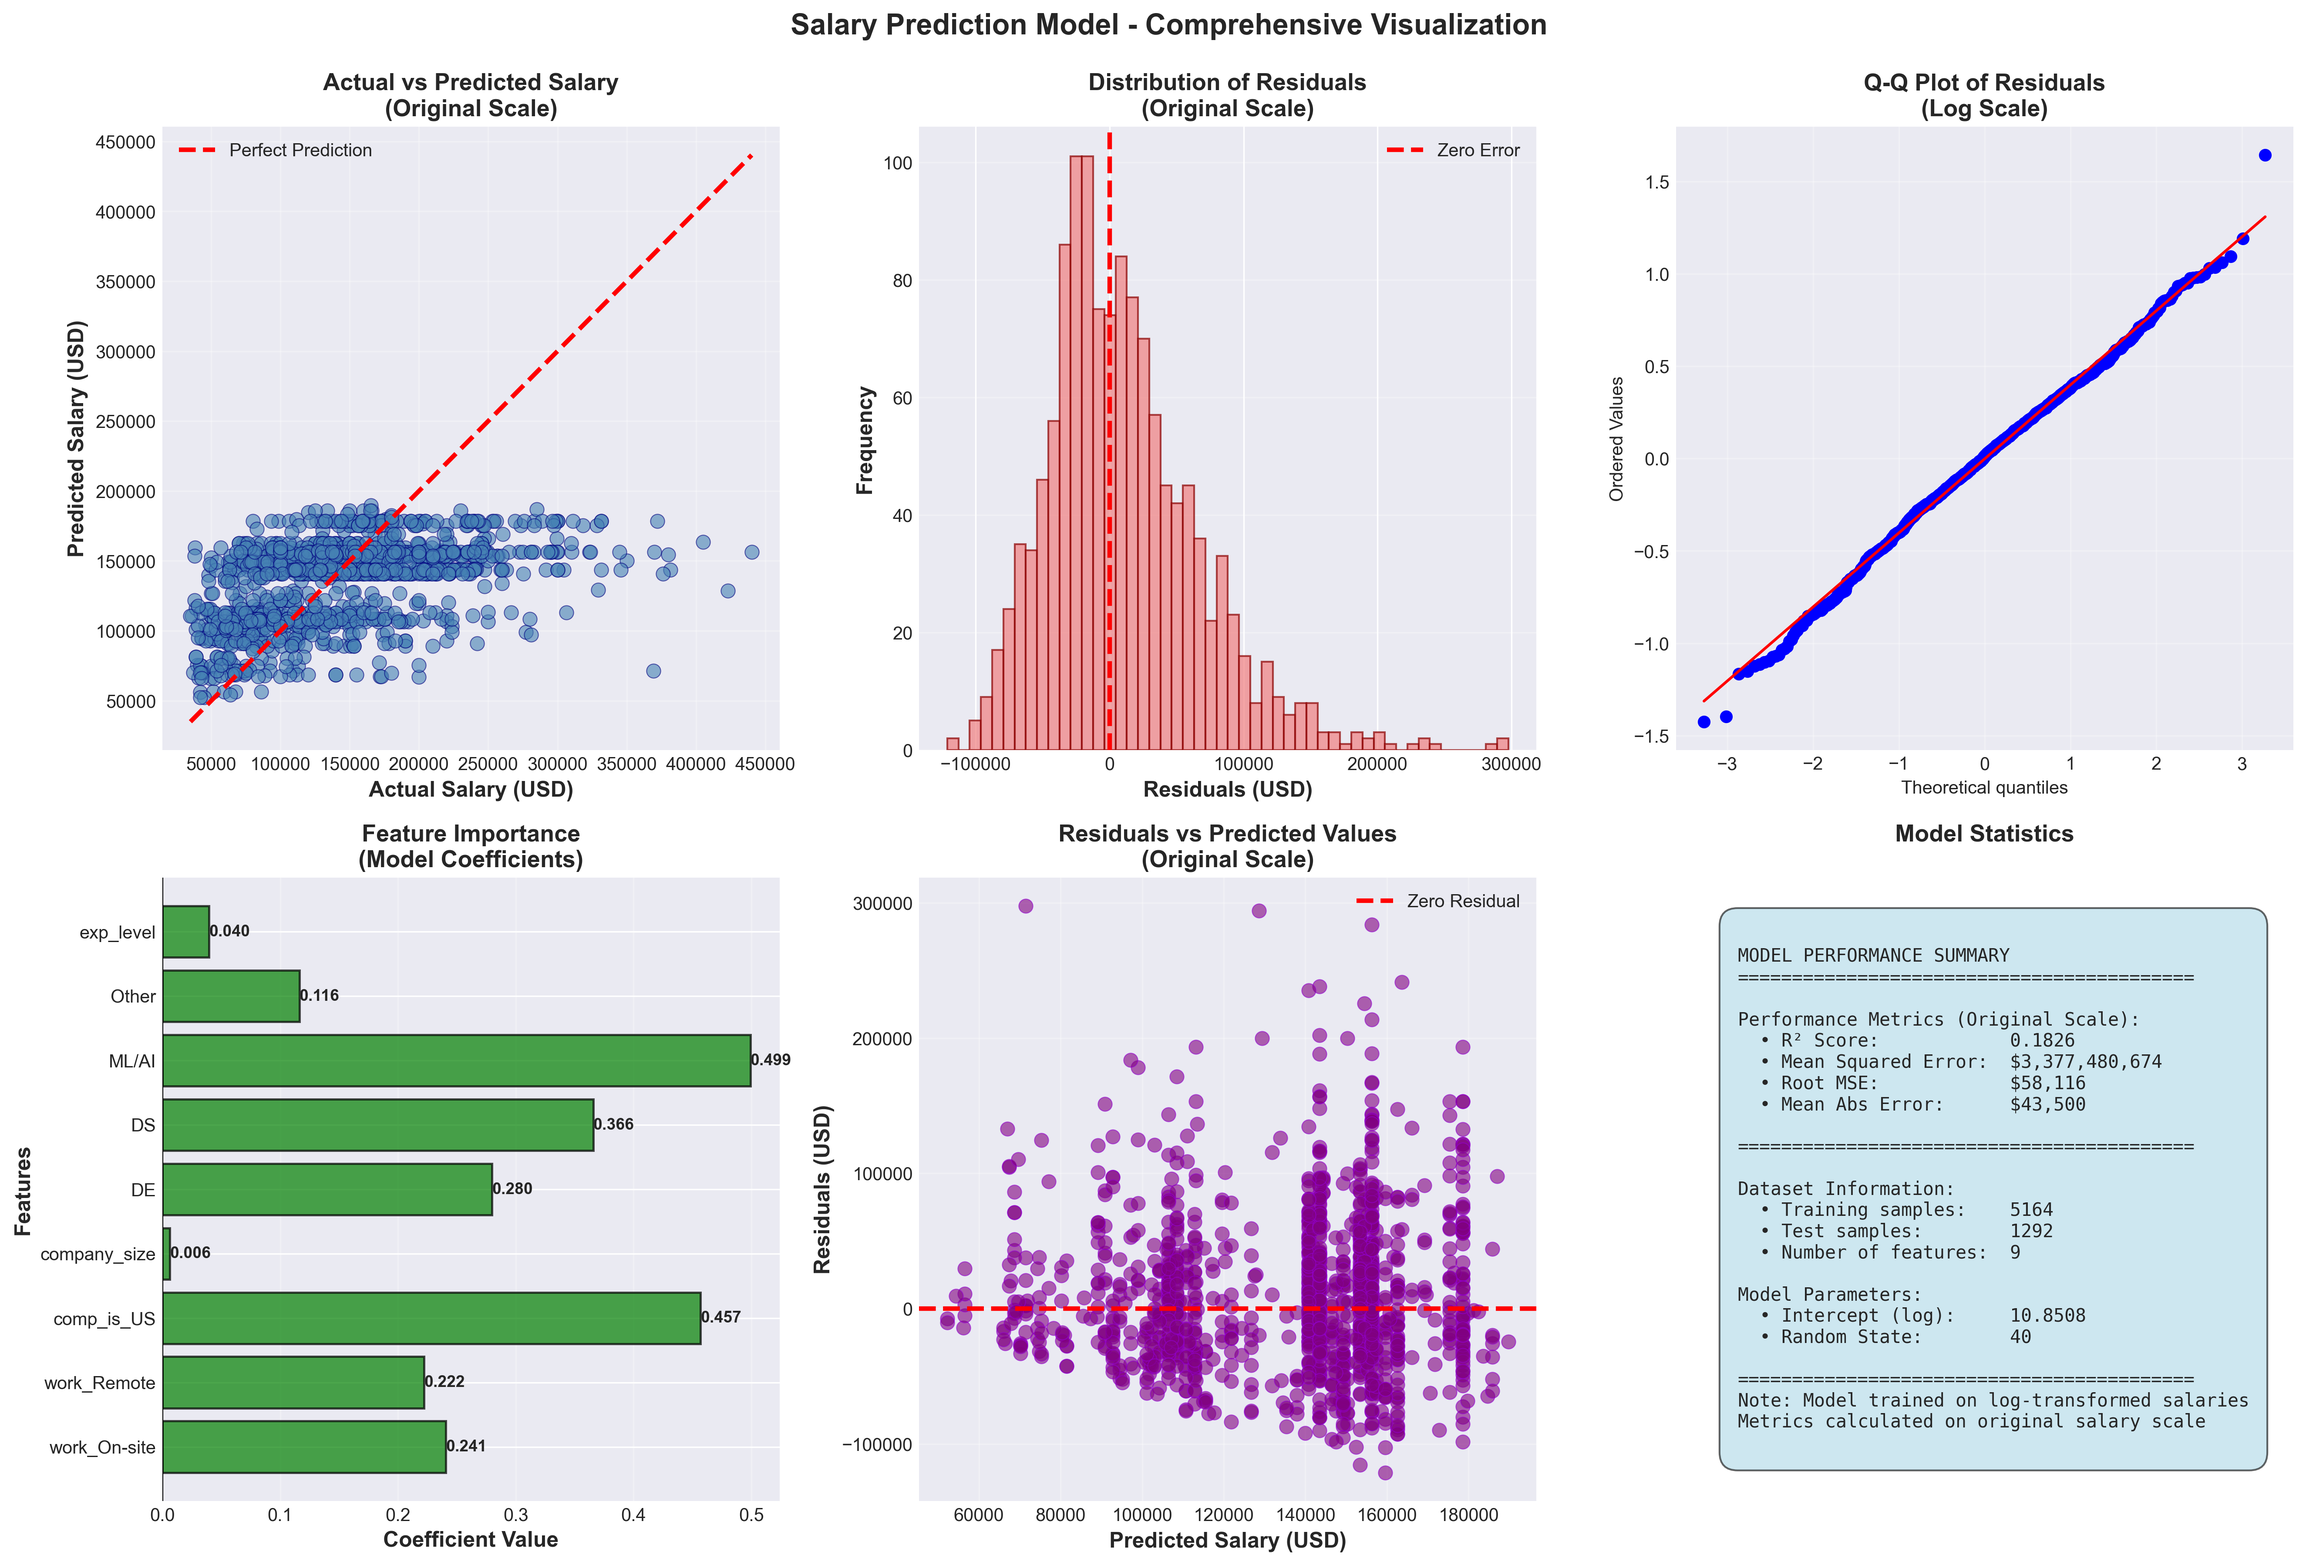
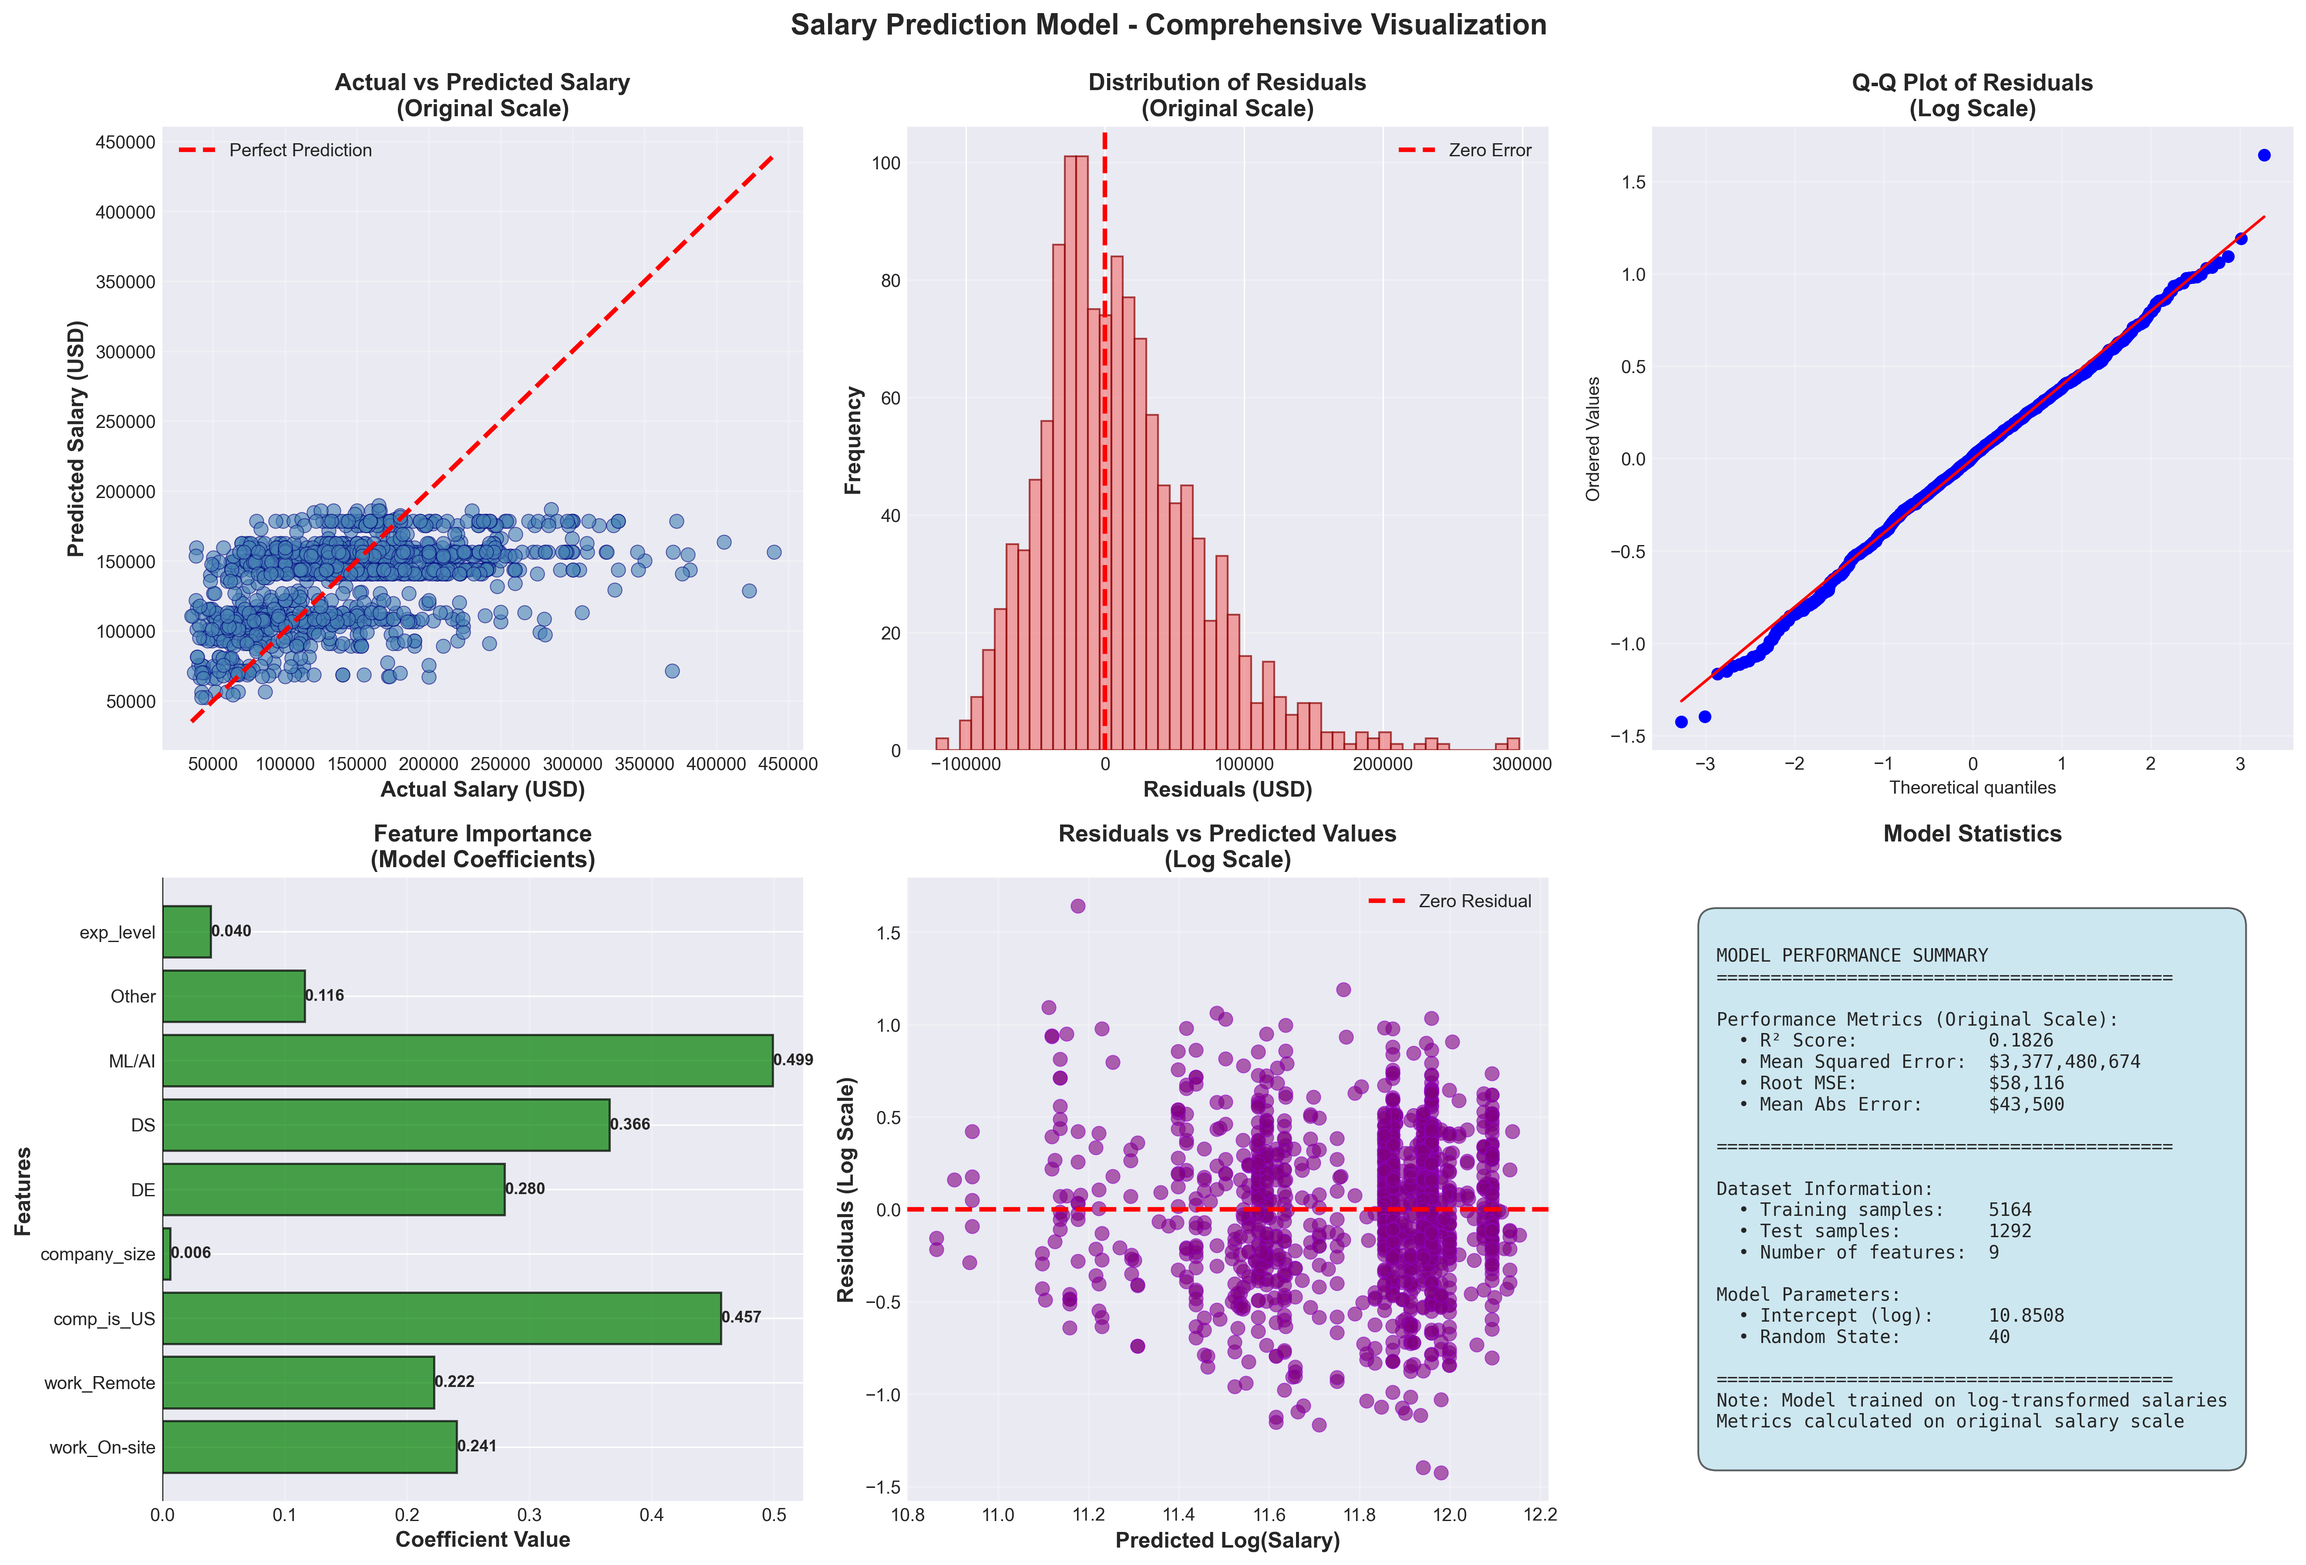
change original scale to log scale

diff --git a/diagram2.py b/diagram2.py
@@ -7,228 +7,135 @@ from sklearn.linear_model import LinearRegression
 from sklearn.metrics import mean_squared_error, r2_score, mean_absolute_error
 from scipy import stats
 
-# Đọc dữ liệu đã được xử lý
+# 1. ĐỌC DỮ LIỆU
+# Giả định: 'salary_in_usd' trong file này đã được Log-transform ở bước tiền xử lý
 df = pd.read_csv('dataset_proceeded.csv')
 
-# Chuẩn bị dữ liệu
+# 2. CHUẨN BỊ DỮ LIỆU
 X = df.drop(columns='salary_in_usd')
 y = df['salary_in_usd']
 
-# Split data (giống model.py)
+# Chia tập dữ liệu (Giữ nguyên random_state để đối chiếu)
 X_train, X_test, y_train, y_test = train_test_split(X, y, test_size=0.2, random_state=40)
 
-# Train model
+# 3. HUẤN LUYỆN MÔ HÌNH
 model = LinearRegression()
 model.fit(X_train, y_train)
 
-# Predictions (trong log scale)
+# 4. DỰ ĐOÁN (TRÊN LOG SCALE)
 y_pred = model.predict(X_test)
 
-# Convert về original scale để tính metrics
-y_test_original = np.exp(y_test)
-y_pred_original = np.exp(y_pred)
-
-# Tính metrics trên original scale
-mse = mean_squared_error(y_test_original, y_pred_original)
-rmse = np.sqrt(mse)
-r2 = r2_score(y_test_original, y_pred_original)
-mae = mean_absolute_error(y_test_original, y_pred_original)
-
-# Residuals trong original scale
-residuals_original = y_test_original - y_pred_original
-
-# Residuals trong log scale
+# 5. TÍNH TOÁN METRICS TRÊN LOG SCALE
+# Không dùng np.exp(), tính trực tiếp để xem sai số trên đơn vị Log
+mse_log = mean_squared_error(y_test, y_pred)
+rmse_log = np.sqrt(mse_log)
+r2_log = r2_score(y_test, y_pred)
+mae_log = mean_absolute_error(y_test, y_pred)
 residuals_log = y_test - y_pred
 
 print("="*60)
-print("MODEL PERFORMANCE METRICS")
+print("MODEL PERFORMANCE METRICS (LOG SCALE)")
 print("="*60)
-print(f"R² Score:                {r2:.4f}")
-print(f"Mean Squared Error:      ${mse:,.2f}")
-print(f"Root Mean Squared Error: ${rmse:,.2f}")
-print(f"Mean Absolute Error:     ${mae:,.2f}")
+print(f"R² Score:                {r2_log:.4f}")
+print(f"Mean Squared Error:      {mse_log:.4f}")
+print(f"Root Mean Squared Error: {rmse_log:.4f}")
+print(f"Mean Absolute Error:     {mae_log:.4f}")
 print("="*60)
 
-# ========== VISUALIZATION ==========
+# ========== TRỰC QUAN HÓA 1: HIỆU SUẤT TỔNG THỂ (LOG SCALE) ==========
 plt.style.use('seaborn-v0_8-darkgrid')
 fig = plt.figure(figsize=(18, 12))
 
-# 1. Actual vs Predicted (Original Scale)
+# 1. Actual vs Predicted (Log Scale)
 ax1 = plt.subplot(2, 3, 1)
-plt.scatter(y_test_original, y_pred_original, alpha=0.6, color='steelblue', 
-            edgecolors='navy', s=60, linewidth=0.5)
-plt.plot([y_test_original.min(), y_test_original.max()], 
-         [y_test_original.min(), y_test_original.max()], 
+plt.scatter(y_test, y_pred, alpha=0.6, color='steelblue', edgecolors='navy', s=60)
+plt.plot([y_test.min(), y_test.max()], [y_test.min(), y_test.max()], 
          'r--', lw=2.5, label='Perfect Prediction')
-plt.xlabel('Actual Salary (USD)', fontsize=12, fontweight='bold')
-plt.ylabel('Predicted Salary (USD)', fontsize=12, fontweight='bold')
-plt.title('Actual vs Predicted Salary\n(Original Scale)', fontsize=13, fontweight='bold')
-plt.legend(fontsize=10)
-plt.grid(True, alpha=0.3)
+plt.xlabel('Actual Log(Salary)', fontsize=12, fontweight='bold')
+plt.ylabel('Predicted Log(Salary)', fontsize=12, fontweight='bold')
+plt.title('Actual vs Predicted\n(Log Scale)', fontsize=13, fontweight='bold')
+plt.legend()
 
-# 2. Residuals Distribution (Original Scale)
+# 2. Distribution of Residuals (Log Scale)
 ax2 = plt.subplot(2, 3, 2)
-plt.hist(residuals_original, bins=50, color='lightcoral', edgecolor='darkred', alpha=0.7)
-plt.axvline(x=0, color='red', linestyle='--', linewidth=2.5, label='Zero Error')
-plt.xlabel('Residuals (USD)', fontsize=12, fontweight='bold')
-plt.ylabel('Frequency', fontsize=12, fontweight='bold')
-plt.title('Distribution of Residuals\n(Original Scale)', fontsize=13, fontweight='bold')
-plt.legend(fontsize=10)
-plt.grid(True, alpha=0.3, axis='y')
+sns.histplot(residuals_log, kde=True, color='lightcoral', edgecolor='darkred', alpha=0.7)
+plt.axvline(x=0, color='red', linestyle='--', linewidth=2)
+plt.xlabel('Residuals (Log Difference)', fontsize=12, fontweight='bold')
+plt.title('Distribution of Residuals\n(Log Scale)', fontsize=13, fontweight='bold')
 
-# 3. Q-Q Plot (Log Scale Residuals)
+# 3. Q-Q Plot (Log Scale)
 ax3 = plt.subplot(2, 3, 3)
 stats.probplot(residuals_log, dist="norm", plot=plt)
 plt.title('Q-Q Plot of Residuals\n(Log Scale)', fontsize=13, fontweight='bold')
-plt.grid(True, alpha=0.3)
 
 # 4. Feature Importance (Coefficients)
 ax4 = plt.subplot(2, 3, 4)
-feature_names = [
-    'work_On-site',
-    'work_Remote',
-    'comp_is_US',
-    'company_size',
-    'DE',  # Data Engineering
-    'DS',  # Data Science
-    'ML/AI',
-    'Other',
-    'exp_level'
-]
+feature_names = ['work_On-site', 'work_Remote', 'comp_is_US', 'company_size', 
+                 'DE', 'DS', 'ML/AI', 'Other', 'exp_level']
 coefficients = model.coef_
 colors = ['green' if c > 0 else 'red' for c in coefficients]
-bars = plt.barh(feature_names, coefficients, color=colors, alpha=0.7, edgecolor='black', linewidth=1.2)
-plt.xlabel('Coefficient Value', fontsize=12, fontweight='bold')
-plt.ylabel('Features', fontsize=12, fontweight='bold')
-plt.title('Feature Importance\n(Model Coefficients)', fontsize=13, fontweight='bold')
-plt.axvline(x=0, color='black', linestyle='-', linewidth=1)
-plt.grid(True, alpha=0.3, axis='x')
+bars = plt.barh(feature_names, coefficients, color=colors, alpha=0.7, edgecolor='black')
+plt.axvline(x=0, color='black', lw=1)
+plt.title('Feature Importance\n(Log Scale Coefficients)', fontsize=13, fontweight='bold')
+for bar in bars:
+    plt.text(bar.get_width(), bar.get_y() + bar.get_height()/2, f'{bar.get_width():.3f}', va='center')
 
-# Thêm giá trị lên bars
-for bar, coef in zip(bars, coefficients):
-    width = bar.get_width()
-    plt.text(width, bar.get_y() + bar.get_height()/2, 
-             f'{coef:.3f}',
-             ha='left' if width > 0 else 'right',
-             va='center', fontsize=9, fontweight='bold')
-
-# 5. Residuals vs Predicted (Original Scale)
+# 5. Residuals vs Predicted (Log Scale) - Kiểm tra Homoscedasticity
 ax5 = plt.subplot(2, 3, 5)
-plt.scatter(y_pred_original, residuals_original, alpha=0.6, color='purple', 
-            edgecolors='darkviolet', s=60, linewidth=0.5)
-plt.axhline(y=0, color='red', linestyle='--', linewidth=2.5, label='Zero Residual')
-plt.xlabel('Predicted Salary (USD)', fontsize=12, fontweight='bold')
-plt.ylabel('Residuals (USD)', fontsize=12, fontweight='bold')
-plt.title('Residuals vs Predicted Values\n(Original Scale)', fontsize=13, fontweight='bold')
-plt.legend(fontsize=10)
-plt.grid(True, alpha=0.3)
+plt.scatter(y_pred, residuals_log, alpha=0.6, color='purple', edgecolors='darkviolet', s=60)
+plt.axhline(y=0, color='red', linestyle='--', lw=2)
+plt.xlabel('Predicted Log(Salary)', fontsize=12, fontweight='bold')
+plt.ylabel('Residuals', fontsize=12, fontweight='bold')
+plt.title('Residuals vs Predicted\n(Log Scale)', fontsize=13, fontweight='bold')
 
-# 6. Model Performance Summary
+# 6. Summary Table
 ax6 = plt.subplot(2, 3, 6)
 ax6.axis('off')
+summary_text = (
+    f"SUMMARY (LOG SCALE)\n"
+    f"{'-'*30}\n"
+    f"R² Score: {r2_log:.4f}\n"
+    f"RMSE: {rmse_log:.4f}\n"
+    f"MAE: {mae_log:.4f}\n"
+    f"Train size: {len(X_train)}\n"
+    f"Test size: {len(X_test)}"
+)
+plt.text(0.1, 0.5, summary_text, fontsize=12, family='monospace', 
+         bbox=dict(boxstyle='round', facecolor='wheat', alpha=0.5))
 
-metrics_text = f"""
-MODEL PERFORMANCE SUMMARY
-{'='*42}
-
-Performance Metrics (Original Scale):
-  • R² Score:            {r2:.4f}
-  • Mean Squared Error:  ${mse:,.0f}
-  • Root MSE:            ${rmse:,.0f}
-  • Mean Abs Error:      ${mae:,.0f}
-
-{'='*42}
-
-Dataset Information:
-  • Training samples:    {len(X_train)}
-  • Test samples:        {len(X_test)}
-  • Number of features:  {X.shape[1]}
-
-Model Parameters:
-  • Intercept (log):     {model.intercept_:.4f}
-  • Random State:        40
-
-{'='*42}
-Note: Model trained on log-transformed salaries
-Metrics calculated on original salary scale
-"""
-
-plt.text(0.1, 0.5, metrics_text, fontsize=10, family='monospace',
-         verticalalignment='center', 
-         bbox=dict(boxstyle='round', facecolor='lightblue', alpha=0.6, pad=1))
-plt.title('Model Statistics', fontsize=13, fontweight='bold', pad=20)
-
-plt.suptitle('Salary Prediction Model - Comprehensive Visualization', 
-             fontsize=16, fontweight='bold', y=0.995)
-
-plt.tight_layout()
-plt.savefig('model_visualization_complete.png', dpi=300, bbox_inches='tight')
-print("\n✓ Visualization saved as 'model_visualization_complete.png'")
+plt.suptitle('Salary Prediction Model - Comprehensive Log-Scale Analysis', fontsize=16, fontweight='bold', y=0.98)
+plt.tight_layout(rect=[0, 0.03, 1, 0.95])
+plt.savefig('model_analysis_log_scale.png', dpi=300)
 plt.show()
 
-# ========== ADDITIONAL VISUALIZATION: Feature Analysis ==========
+# ========== TRỰC QUAN HÓA 2: PHÂN TÍCH ĐẶC TRƯNG (LOG SCALE) ==========
 fig2, axes = plt.subplots(3, 3, figsize=(18, 14))
 axes = axes.ravel()
 
-full_feature_names = [
-    'work_models_On-site',
-    'work_models_Remote',
-    'comp_is_US',
-    'company_size_encoded',
-    'domain_expertise_Data Engineering',
-    'domain_expertise_Data Science',
-    'domain_expertise_Machine Learning / AI',
-    'domain_expertise_Other',
-    'exp_level'
-]
-
 for idx, (col, short_name) in enumerate(zip(X.columns, feature_names)):
+    if idx >= 9: break # Giới hạn 9 đặc trưng đầu tiên
     ax = axes[idx]
     
-    # Tạo dataframe để phân tích
-    feature_data = pd.DataFrame({
-        'Feature': X_test[col],
-        'Actual': y_test_original,
-        'Predicted': y_pred_original
-    })
+    # Tính trung bình log salary thực tế và dự đoán theo từng nhóm đặc trưng
+    feat_analysis = pd.DataFrame({'Feature': X_test[col], 'Actual': y_test, 'Predicted': y_pred})
+    grouped = feat_analysis.groupby('Feature').mean()
     
-    # Group by và tính trung bình
-    grouped = feature_data.groupby('Feature').mean()
+    x_pos = np.arange(len(grouped))
+    width = 0.35
+    ax.bar(x_pos - width/2, grouped['Actual'], width, label='Actual (Log)', color='steelblue')
+    ax.bar(x_pos + width/2, grouped['Predicted'], width, label='Predicted (Log)', color='coral')
     
-    if len(grouped) > 0:
-        x_pos = np.arange(len(grouped))
-        width = 0.35
-        
-        bars1 = ax.bar(x_pos - width/2, grouped['Actual'], width, 
-                      label='Actual', alpha=0.8, color='steelblue', edgecolor='navy')
-        bars2 = ax.bar(x_pos + width/2, grouped['Predicted'], width, 
-                      label='Predicted', alpha=0.8, color='coral', edgecolor='darkred')
-        
-        ax.set_xlabel(short_name, fontsize=11, fontweight='bold')
-        ax.set_ylabel('Average Salary (USD)', fontsize=10)
-        ax.set_title(f'Salary by {short_name}', fontsize=12, fontweight='bold')
-        ax.set_xticks(x_pos)
-        ax.set_xticklabels(grouped.index, rotation=45, ha='right')
-        ax.legend(fontsize=9)
-        ax.grid(True, alpha=0.3, axis='y')
-        
-        # Format y-axis
-        ax.yaxis.set_major_formatter(plt.FuncFormatter(lambda x, p: f'${x/1000:.0f}K'))
+    ax.set_title(f'Avg Log Salary by {short_name}', fontweight='bold')
+    ax.set_xticks(x_pos)
+    ax.set_xticklabels(grouped.index, rotation=45)
+    ax.set_ylabel('Log Value')
+    # Zoom vào vùng giá trị log để thấy rõ sự khác biệt (ví dụ từ 10.0 đến 12.5)
+    ax.set_ylim([y_test.min() * 0.95, y_test.max() * 1.05])
+    ax.legend(fontsize=8)
 
-plt.suptitle('Average Salary Analysis by Feature', 
-             fontsize=16, fontweight='bold', y=0.995)
-
-plt.tight_layout()
-plt.savefig('model_feature_analysis.png', dpi=300, bbox_inches='tight')
-print("✓ Feature analysis saved as 'model_feature_analysis.png'")
+plt.suptitle('Feature Analysis: Actual vs Predicted (Log Scale Mean)', fontsize=16, fontweight='bold')
+plt.tight_layout(rect=[0, 0.03, 1, 0.95])
+plt.savefig('feature_analysis_log_scale.png', dpi=300)
 plt.show()
 
-print("\n" + "="*60)
-print("VISUALIZATION COMPLETED SUCCESSFULLY!")
-print("="*60)
-print("\nGenerated files:")
-print("  1. model_visualization_complete.png")
-print("  2. model_feature_analysis.png")
-print(f"\nModel R² Score: {r2:.4f}")
-print(f"Root Mean Squared Error: ${rmse:,.2f}")
-print("="*60)
+print("\n✓ Đã lưu biểu đồ: 'model_analysis_log_scale.png' và 'feature_analysis_log_scale.png'")
